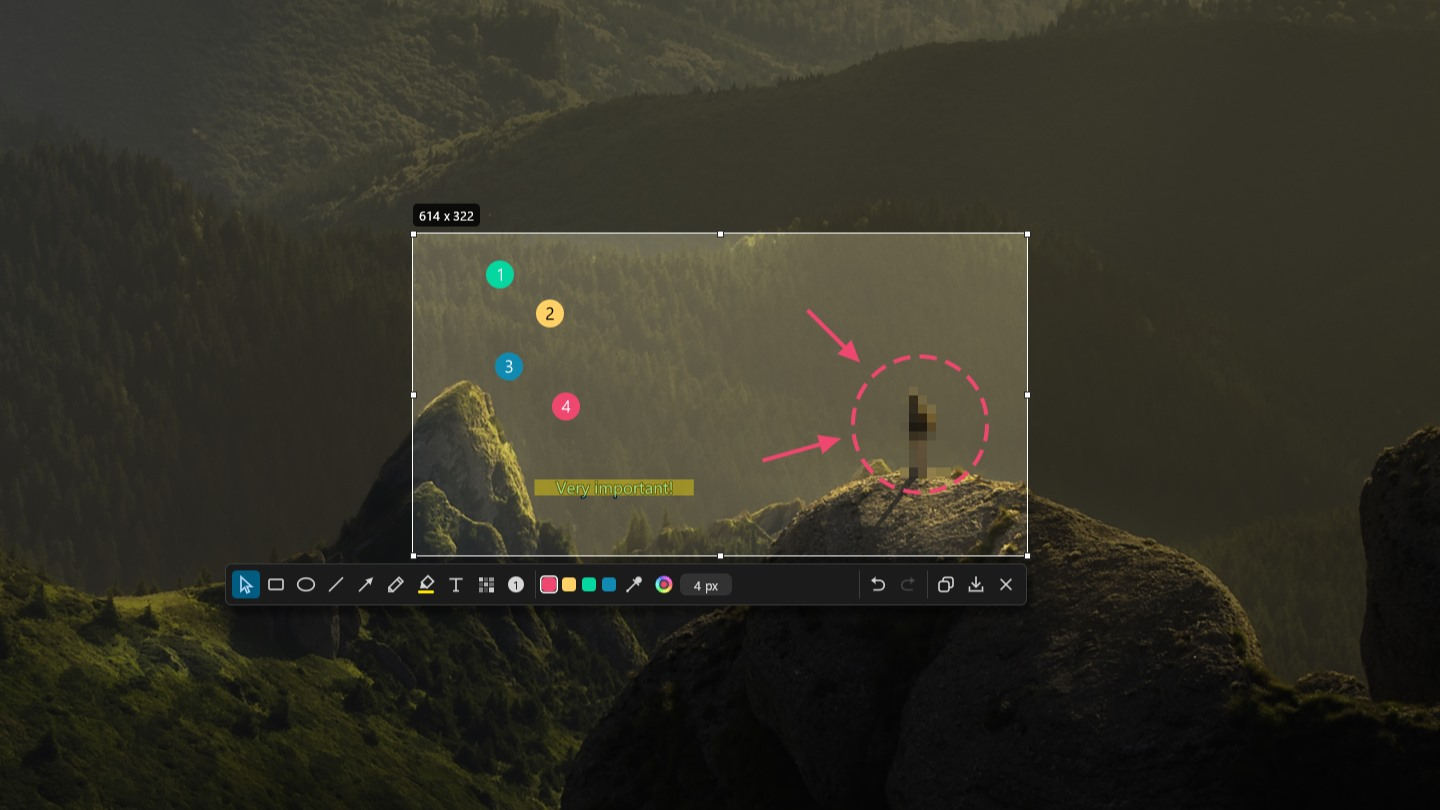
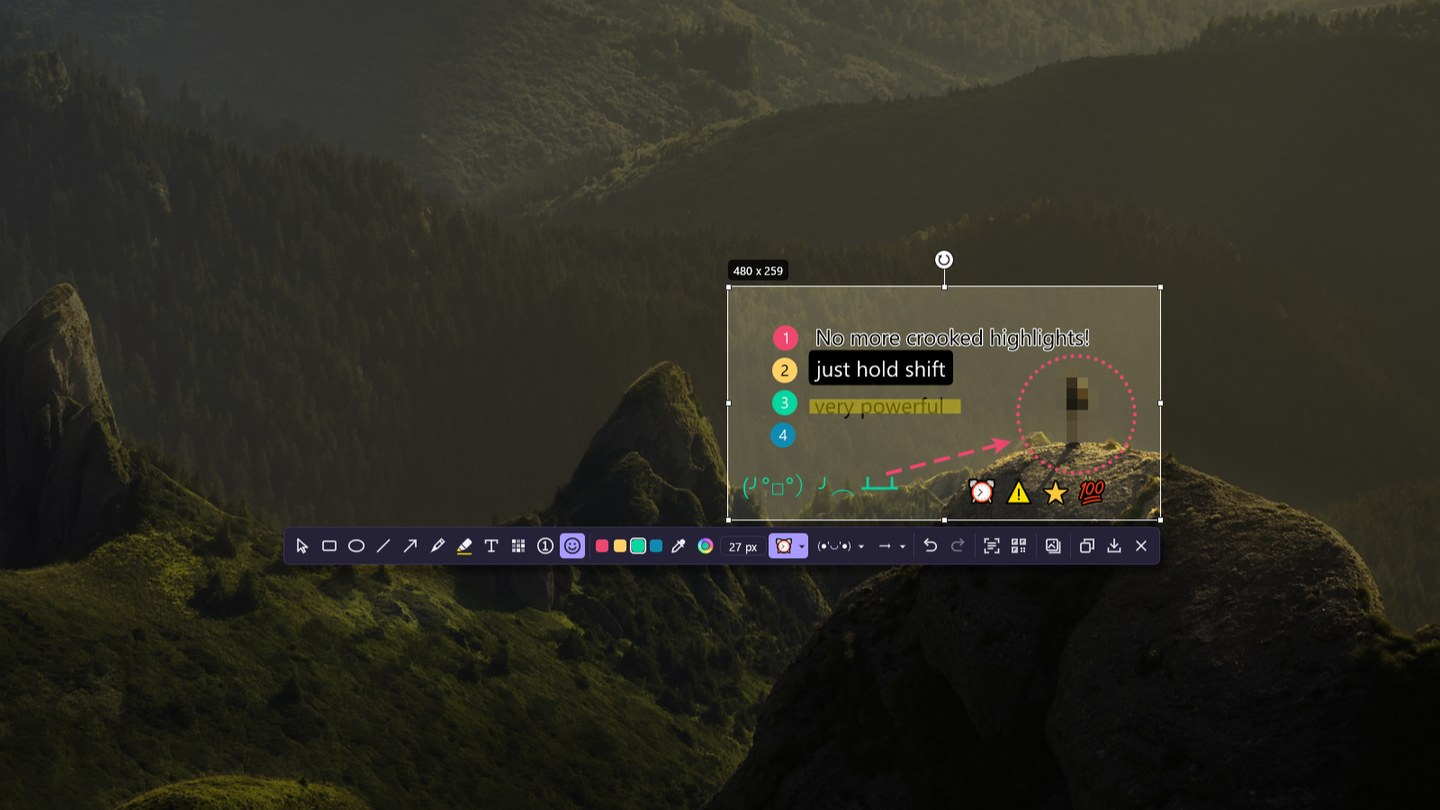
Update the README screenshots for the Twilight theme

diff --git a/README.md b/README.md
@@ -3,7 +3,7 @@
 A screenshot and annotation tool for Windows. Captures go to the clipboard or to a
 file you save; Duskshot has no upload feature and needs no installer.
 
-![Duskshot's capture overlay: a selected region with numbered steps, arrows, a dashed circle, a highlighted label and a pixelated figure, above the toolbar](docs/screenshot.jpg)
+![Duskshot's capture overlay: a selected region with numbered steps, text, a highlighted label, stamps, an arrow, a dotted circle and a pixelated figure, above the toolbar](docs/screenshot.jpg)
 
 <sub>Background photo: "Alone in the unspoilt wilderness" by David Marcu, CC0, via Wikimedia Commons.</sub>
 
